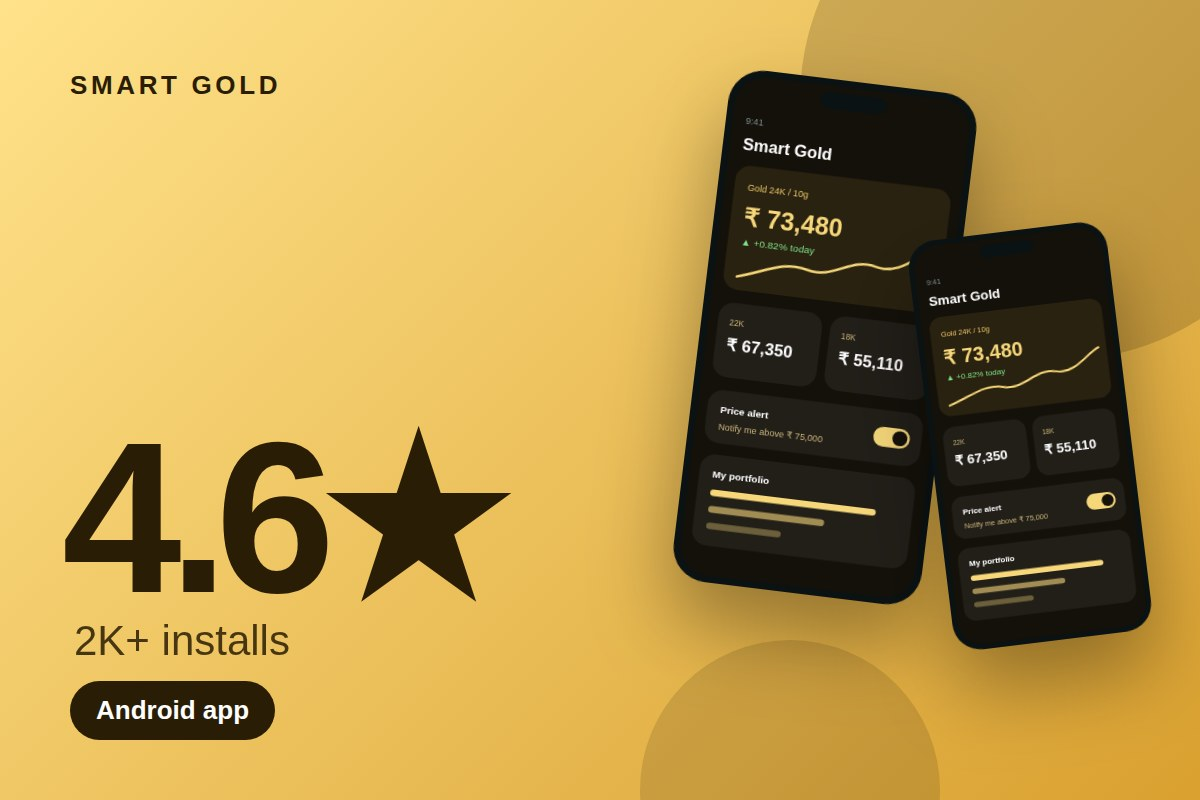
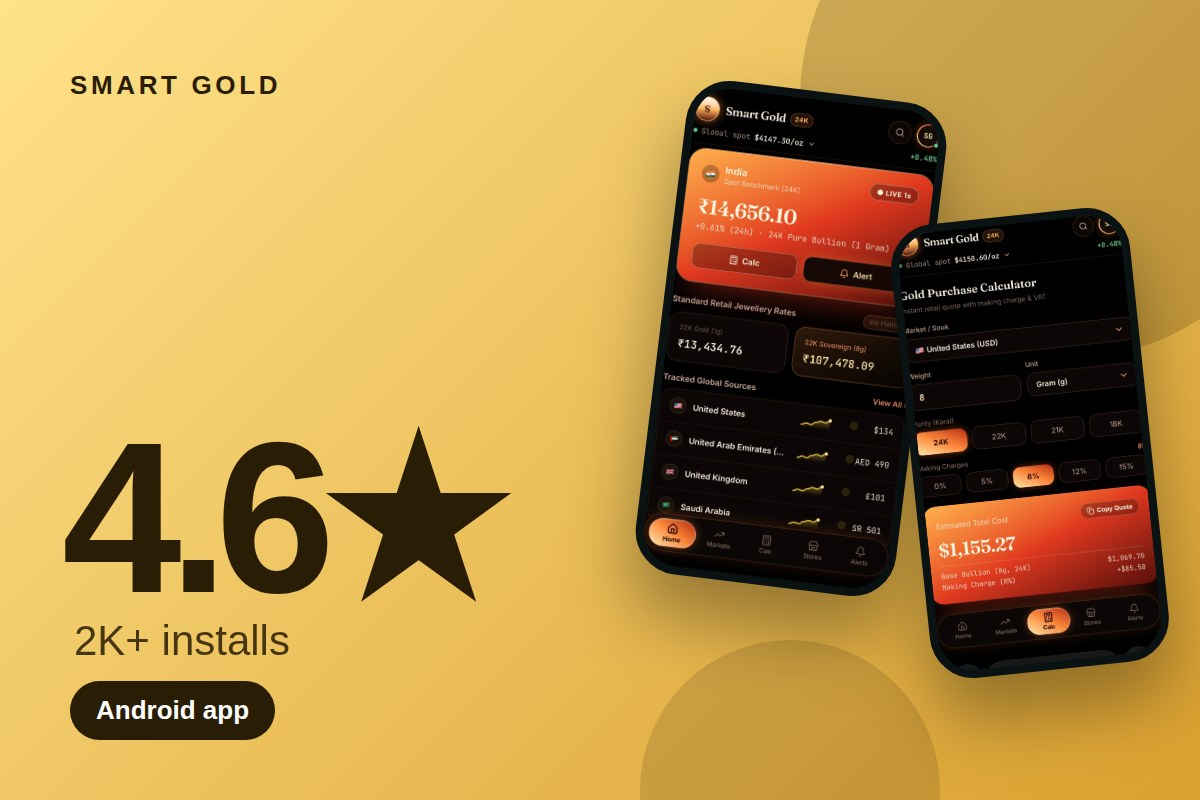
Add real Smart Gold app screenshots and rebuild its cover
Five app screens (home, calculator, alarms, profile, launch) now fill the gallery and the card cover; roadmap given a full-width row.

Claude-Session: https://claude.ai/code/session_01BGfRHeAxmWKV7NpbKQ9SQr

Changed region(s): [[0.5242, 0.0625, 0.9867, 0.9062]]

diff --git a/design-option-4.html b/design-option-4.html
@@ -482,7 +482,7 @@
       res: [['4', 'Categories'], ['100%', 'Responsive'], ['UAE', 'Market']], big: [100, '%', 'Mobile responsive', 0, ''], seg: ['Category 1', 'Category 2', 'Category 3', 'Category 4'], cl: 'Catalog', cv: '4', imgs: ['assets/zeko-1.jpg','assets/zeko-2.jpg'], cap: 'Brand creatives for the UAE market: UAE National Day and a weekend campaign post.', tag: 'Brand to launch',
       ph: [['Brand and catalog', 0, 32], ['Design', 24, 58], ['Build', 50, 82], ['Responsive QA', 68, 100]], ticks: ['Sprint 1', 'Sprint 2', 'Sprint 3', 'Sprint 4'], now: 88 },
     { n: 'Smart Gold', where: 'Android app', kind: 'Mobile product', tags: ['Live rates', 'Alerts'], sum: 'Real-time gold tracking with 30-second updates, charts, alerts and portfolio tracking.',
-      res: [['2K+', 'Installs'], ['4.6\u2605', 'Rating'], ['30s', 'Refresh']], big: [2, 'K+', 'Installs', 0, ''], series: [40, 46, 43, 52, 58, 55, 63, 60, 68, 72, 70, 76], cl: 'Live rate feed', cv: 'Live', imgs: ['assets/smartgold.svg'], cap: 'Preview mockup of the app. Send real screenshots and I will swap them in.', live: true, tag: 'Data to Play Store', rate: '4.6',
+      res: [['2K+', 'Installs'], ['4.6\u2605', 'Rating'], ['30s', 'Refresh']], big: [2, 'K+', 'Installs', 0, ''], series: [40, 46, 43, 52, 58, 55, 63, 60, 68, 72, 70, 76], cl: 'Live rate feed', cv: 'Live', imgs: ['assets/smartgold-1.jpg','assets/smartgold-2.jpg','assets/smartgold-3.jpg','assets/smartgold-4.jpg','assets/smartgold-5.jpg'], cap: 'Live app screens: home with 1-second India spot rate, gold calculator, price alarms, profile and settings, and the launch screen.', live: true, tag: 'Data to Play Store', rate: '4.6',
       ph: [['Rate feed', 0, 32], ['App build', 18, 52], ['Charts and alerts', 44, 78], ['Play Store', 66, 100]], ticks: ['M1', 'M2', 'M3', 'M4'], now: 100, lv: true },
     { n: 'AuditoriumHub', where: 'Marketplace platform', kind: 'Full-stack product', tags: ['Bookings', 'Payments'], sum: 'Venue booking platform connecting organisers with auditoriums, payments included.',
       res: [['1.2K+', 'Venues'], ['\u20B950L+', 'Volume'], ['Live', 'Bookings']], big: [1.2, 'K+', 'Venues listed', 1, ''], series: [8, 12, 18, 26, 34, 44, 56, 66, 78, 100], cl: 'Venue growth', cv: '1.2K+', imgs: ['assets/auditoriumhub.svg'], cap: 'Preview mockup of the booking flow. Send real screenshots and I will swap them in.', tag: 'Onboarding to scale',
@@ -501,7 +501,7 @@
     [['hero', 7, 'lime'], ['results', 5, 'soft'], ['gallery', 12], ['roadmap', 7, 'white'], ['chart', 5, 'dark', 'line'], ['date', 6, 'soft'], ['big', 6, 'grey']],
     [['hero', 5, 'blue'], ['chart', 7, 'dark', 'bars'], ['gallery', 12], ['big', 4, 'lime'], ['roadmap', 8, 'white'], ['results', 12, 'soft'], ['date', 12, 'grey']],
     [['hero', 8, 'dark'], ['date', 4, 'lime'], ['gallery', 12], ['chart', 5, 'white', 'ring'], ['results', 7, 'blue'], ['roadmap', 12, 'soft'], ['big', 12, 'lime']],
-    [['hero', 6, 'lime'], ['chart', 6, 'dark', 'line'], ['gallery', 12], ['rating', 4, 'blue'], ['roadmap', 4, 'white'], ['results', 4, 'soft']],
+    [['hero', 6, 'lime'], ['chart', 6, 'dark', 'line'], ['gallery', 12], ['roadmap', 12, 'white'], ['rating', 4, 'blue'], ['results', 8, 'soft']],
     [['hero', 7, 'blue'], ['big', 5, 'lime'], ['gallery', 12], ['chart', 6, 'white', 'bars'], ['roadmap', 6, 'dark'], ['results', 8, 'soft'], ['date', 4, 'grey']],
     [['hero', 5, 'dark'], ['chart', 4, 'white', 'gauge'], ['big', 3, 'lime'], ['gallery', 12], ['chart', 7, 'blue', 'line'], ['results', 5, 'white'], ['roadmap', 12, 'soft']],
     [['hero', 7, 'white'], ['chart', 5, 'blue', 'funnel'], ['gallery', 12], ['results', 12, 'dark'], ['roadmap', 7, 'lime'], ['date', 5, 'soft'], ['big', 12, 'grey']],
